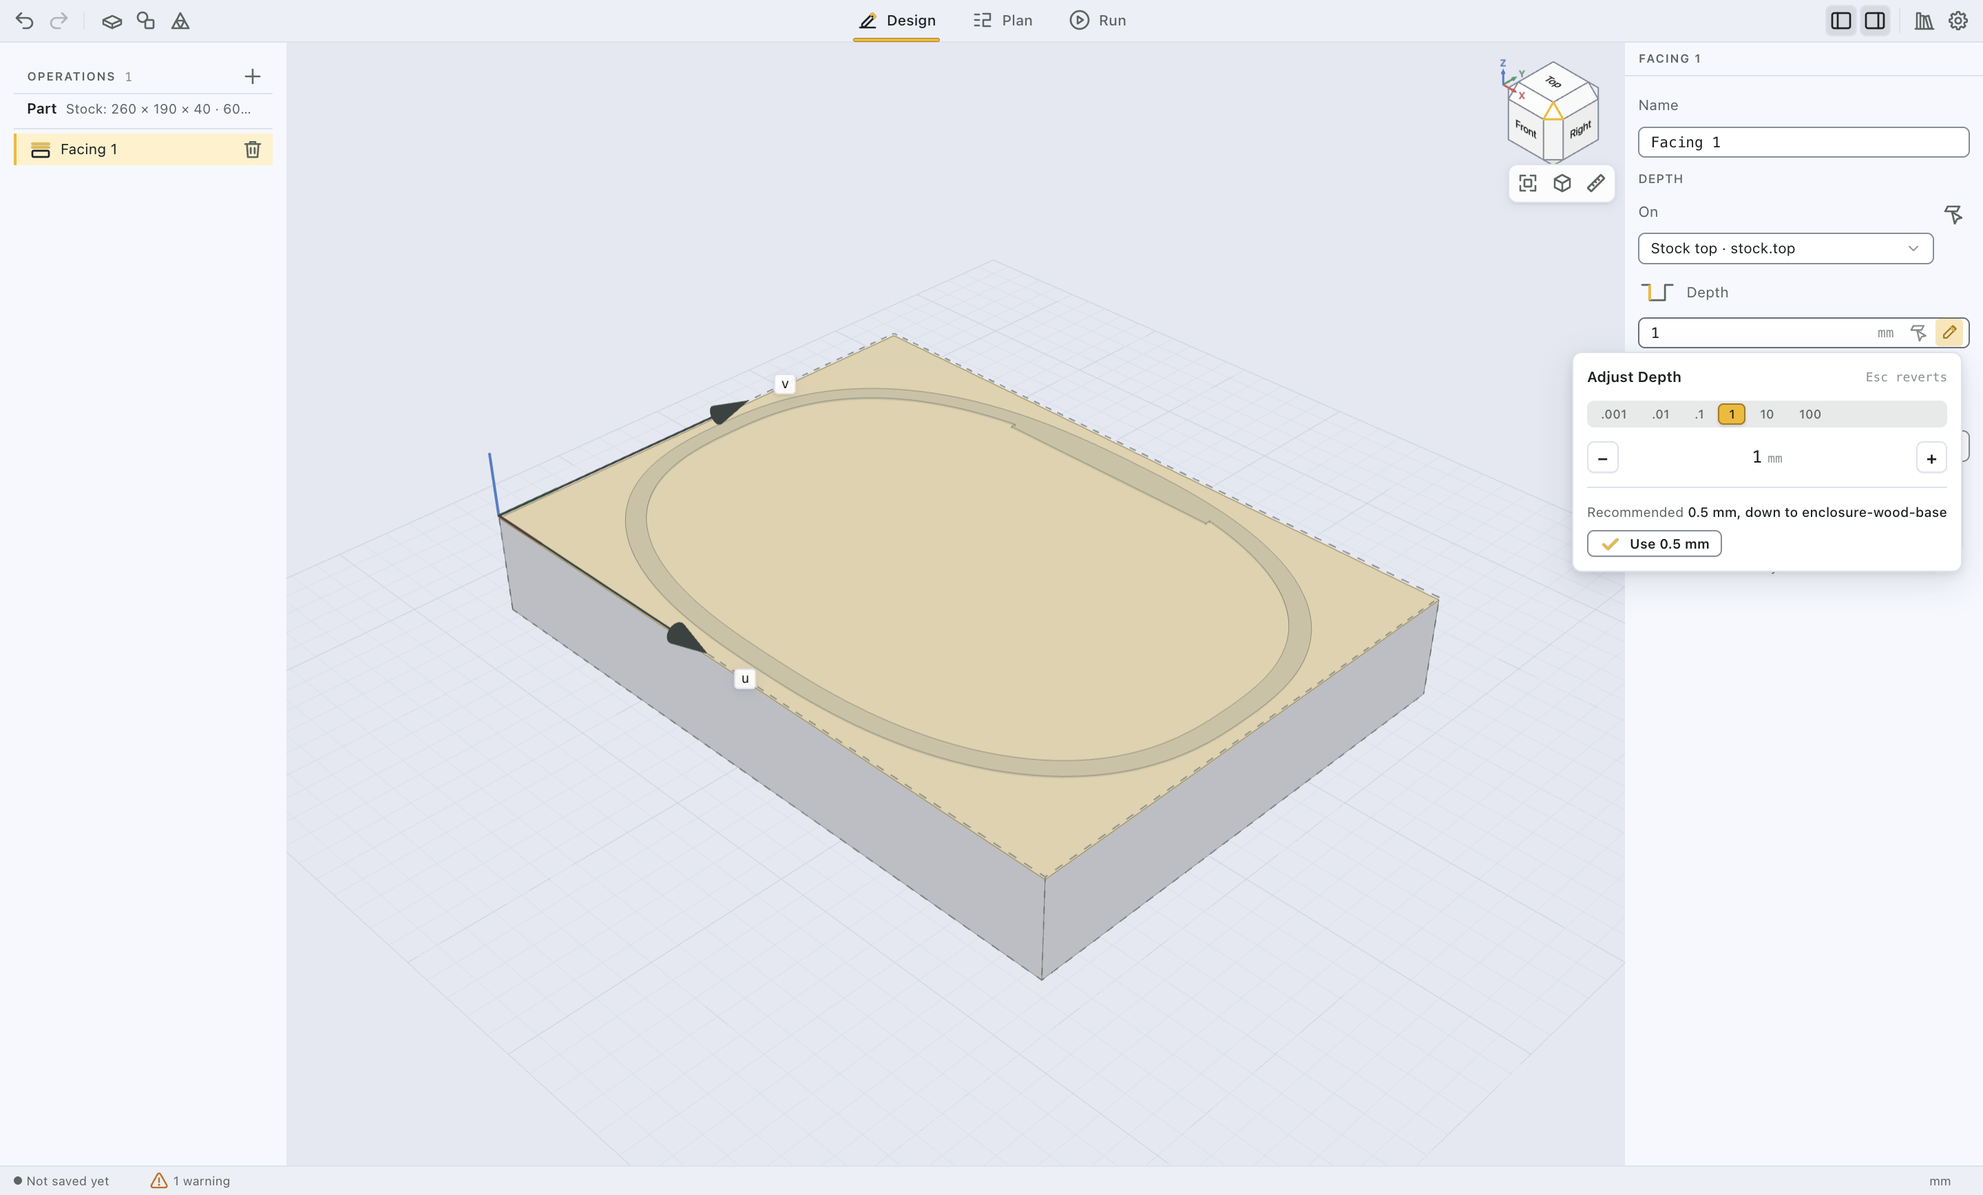
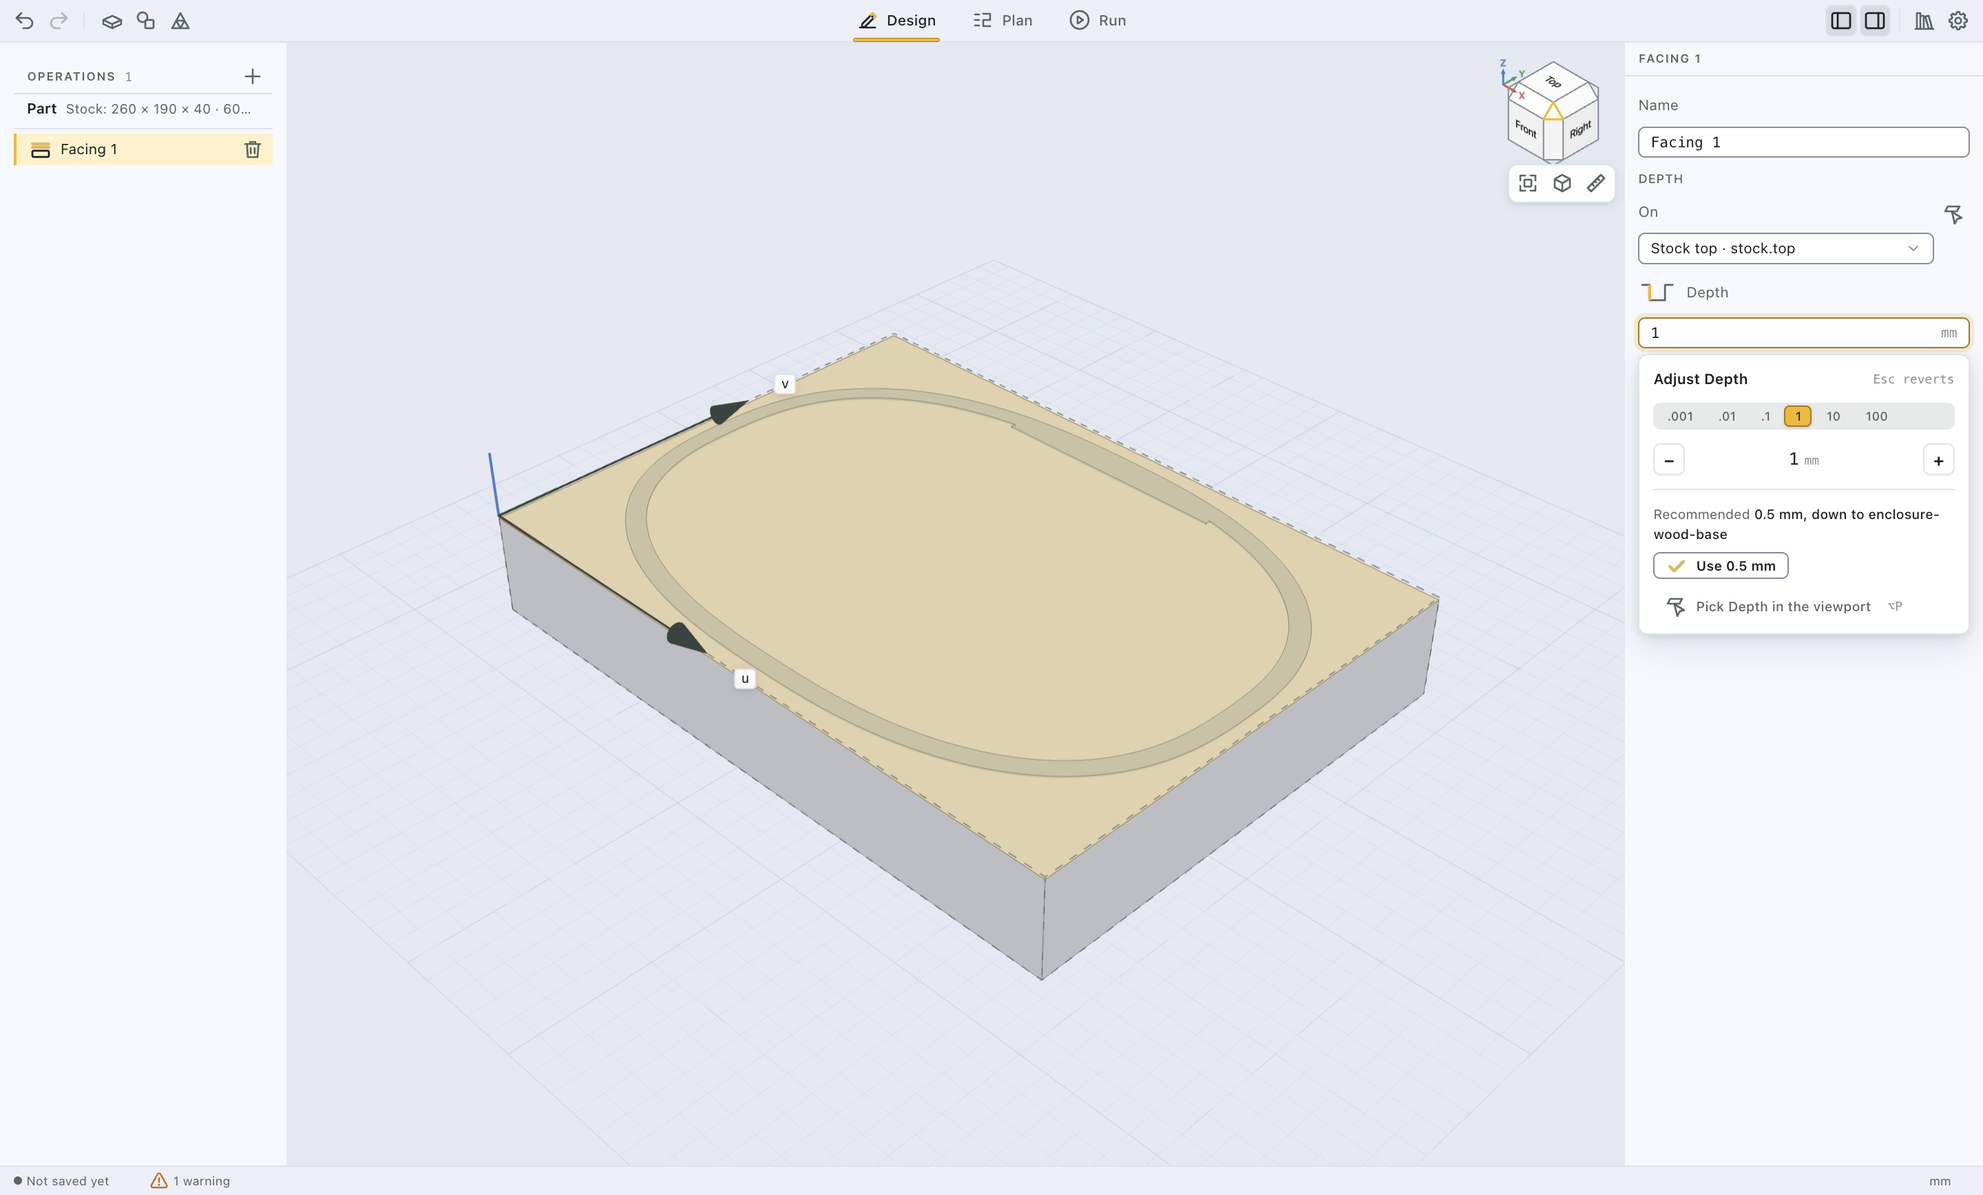
Integrate DF batch 1: facing depth e2e on the Reference panel and the focus-opened adjust panel
- e2e/facing-depth: import through the Reference panel (openReferencePanel), open the Depth
  adjust panel by clicking the field (no pencil since DF9)
- FacingDepth component test: open the adjust panel from the field
- QuantityInput: component test for the recommended value in the adjust panel
  (Recommended … · Use …, disabled once the value matches)
- Docs: recommended value lives in the adjust panel (ui.md, reference-model.md); DF1, DF4,
  DF9, DF10 done in the hardening plan
- Renders regenerated: df4-facing-depth, df1-tool-details, u4-chamfer-mill, df-reference-*

Changed region(s): [[0.7812, 0.2488, 1.0, 0.5599]]

diff --git a/e2e/facing-depth.e2e.ts b/e2e/facing-depth.e2e.ts
@@ -1,11 +1,11 @@
 // The facing depth down to the reference model (DF4) in the built app: the enclosure STL is placed
 // 0.5 mm under the stock top, Add facing takes 0.5 mm as its depth, and after another depth the
-// Depth field's pencil offers "Use 0.5 mm" again. Windows stay hidden (app.fixture.ts). With
+// Depth field's adjust panel (opened by focusing the field, DF9) offers "Use 0.5 mm" again. Windows stay hidden (app.fixture.ts). With
 // DFYOM_RENDERS=1 it writes the light and dark review renders df4-facing-depth-{light,dark}.png.
 // Docs: docs/modes/reference-model.md#facing-depth-from-the-reference-df4
 import { join, resolve } from 'node:path'
 import type { ElectronApplication, Locator, Page } from '@playwright/test'
-import { expect, openPartSetup, test } from './app.fixture'
+import { expect, openReferencePanel, test } from './app.fixture'
 
 const STL = resolve('src/core/design/__fixtures__/enclosure-wood-base.stl')
 const RENDERS = process.env['DFYOM_RENDERS'] === '1'
@@ -75,13 +75,13 @@ test('facing depth from the reference: Add facing and the Depth field suggest it
   await setField(setup, 'Thickness (Z)', '40')
   await setup.getByRole('button', { name: 'Create part' }).click()
 
-  // import (fitted to the top), then lower it 0.5 mm into the stock
-  const group = await openPartSetup(page, 'Reference')
-  await group.getByRole('button', { name: 'Import STL…' }).click()
-  await expect(group).toBeHidden({ timeout: 30_000 })
-  await expect(input(inspector, 'Position Z')).toHaveValue('-39 mm')
-  await setField(inspector, 'Position Z', '-39.5 mm')
-  await expect(input(inspector, 'Position Z')).toHaveValue('-39.5 mm')
+  // import in the Reference panel (fitted to the top), then lower it 0.5 mm into the stock
+  const panel = await openReferencePanel(page)
+  await panel.getByRole('button', { name: 'Import STL…' }).click()
+  await expect(panel.getByTitle('enclosure-wood-base')).toBeVisible({ timeout: 30_000 })
+  await expect(input(panel, 'Position Z')).toHaveValue('-39 mm')
+  await setField(panel, 'Position Z', '-39.5 mm')
+  await expect(input(panel, 'Position Z')).toHaveValue('-39.5 mm')
 
   // a new facing faces down to the reference's top
   await navigator.getByRole('button', { name: 'Add facing' }).click()
@@ -89,15 +89,14 @@ test('facing depth from the reference: Add facing and the Depth field suggest it
   const depth = input(inspector, 'Depth')
   await expect(depth).toHaveValue('0.5 mm')
 
-  // another depth: the pencil offers the reference's depth again
+  // another depth: the adjust panel (opened by focusing the field) offers the reference's again
   await setField(inspector, 'Depth', '1')
   await expect(depth).toHaveValue('1')
-  const adjust = inspector.getByRole('button', { name: 'Adjust Depth' })
   const popover = page.getByRole('dialog', { name: 'Adjust Depth' })
-  await adjust.click()
+  await depth.click()
   await expect(popover.getByText(/0\.5 mm, down to enclosure-wood-base/)).toBeVisible()
   await render(page, 'df4-facing-depth', async () => {
-    await adjust.click()
+    await depth.click()
     await expect(popover).toBeVisible()
   })
   await popover.getByRole('button', { name: 'Use 0.5 mm' }).click()

diff --git a/src/renderer/src/modes/design/FacingDepth.test.tsx b/src/renderer/src/modes/design/FacingDepth.test.tsx
@@ -1,5 +1,5 @@
 // The facing depth down to the reference model (DF4) in the Design window: Add facing takes it as
-// the new facing's depth, the Depth field offers it as its recommended value ("Use …"), and a
+// the new facing's depth, the Depth field's adjust panel (opened on focus) offers it as its recommended value ("Use …"), and a
 // reference at the stock top suggests nothing. Fake bridge bound to a real project runtime with an
 // in-memory asset store and file-reading in-process workers; the viewport canvas is stubbed.
 // Doc: docs/modes/reference-model.md#facing-depth-from-the-reference-df4
@@ -110,11 +110,13 @@ describe('facing depth from the reference (DF4)', () => {
     const depth = within(inspector()).getByLabelText('Depth', { selector: 'input' })
     expect(depth).toHaveValue('0.48 mm')
 
-    // a different depth: the pencil offers the reference's depth again
+    // a different depth (Enter closes the adjust panel): clicking the field reopens it, offering
+    // the reference's depth again
     await user.clear(depth)
     await user.type(depth, '1{Enter}', { skipClick: true })
     await waitFor(() => expect(depthOf()).toBe('1'))
-    await user.click(within(inspector()).getByRole('button', { name: 'Adjust Depth' }))
+    await waitFor(() => expect(screen.queryByRole('dialog', { name: 'Adjust Depth' })).toBeNull())
+    await user.click(depth)
     const dialog = await screen.findByRole('dialog', { name: 'Adjust Depth' })
     expect(within(dialog).getByText(/0\.48 mm, down to box/)).toBeInTheDocument()
     await expectNoAxeViolations()
@@ -127,7 +129,7 @@ describe('facing depth from the reference (DF4)', () => {
     await user.click(await within(navigator()).findByRole('button', { name: 'Add facing' }))
     await within(inspector()).findByRole('heading', { name: 'Facing 1' })
     expect(depthOf()).toBe('0.5 mm')
-    await user.click(within(inspector()).getByRole('button', { name: 'Adjust Depth' }))
+    await user.click(within(inspector()).getByLabelText('Depth', { selector: 'input' }))
     const dialog = await screen.findByRole('dialog', { name: 'Adjust Depth' })
     expect(within(dialog).queryByText(/down to/)).toBeNull()
   })

diff --git a/src/renderer/src/ui/QuantityInput/QuantityInput.test.tsx b/src/renderer/src/ui/QuantityInput/QuantityInput.test.tsx
@@ -1,6 +1,6 @@
 // Spec: docs/conventions/ui.md#quantity-and-expression-input (task 3.4); grammar edge cases from
 // the plan's known issues (`+1/2` deviation pair, `D -1/2`, Greek mu).
-import { act, screen, waitFor } from '@testing-library/react'
+import { act, screen, waitFor, within } from '@testing-library/react'
 import { useState } from 'react'
 import { describe, expect, it, vi } from 'vitest'
 import type { ReferenceResolver } from '../../../../core/expression/evaluate'
@@ -776,6 +776,26 @@ describe('QuantityInput: adjust panel on focus (DF9)', () => {
     await user.type(input, '5')
     expect(input).toHaveValue('3.005')
     expect(panel).toHaveTextContent('3.005')
+  })
+
+  it('shows the recommended value in the panel; "Use …" only while the value differs', async () => {
+    const { user, input, onCommit } = setup({
+      recommended: { source: '0.5 mm', text: '0.5 mm, down to enclosure' },
+    })
+    await user.click(input)
+    const panel = screen.getByRole('dialog', { name: 'Adjust Width' })
+    expect(panel).toHaveTextContent('Recommended 0.5 mm, down to enclosure')
+    const use = within(panel).getByRole('button', { name: 'Use 0.5 mm' })
+    expect(use).toBeEnabled()
+    await user.click(use)
+    expect(committed(onCommit)).toEqual(['0.5 mm = 1/2'])
+    await waitFor(() => expect(screen.queryByRole('dialog')).toBeNull())
+    await user.click(input)
+    expect(
+      within(screen.getByRole('dialog', { name: 'Adjust Width' })).getByRole('button', {
+        name: 'Use 0.5 mm',
+      }),
+    ).toBeDisabled()
   })
 
   it('has no pencil or other button in the input: Tab goes from field to field', async () => {

diff --git a/src/renderer/src/modes/design/OperationFields.tsx b/src/renderer/src/modes/design/OperationFields.tsx
@@ -82,7 +82,7 @@ export interface OperationFieldsContext {
   readonly fixElsewhere?: ((w: DfmWarning) => { label: string; onApply: () => void }) | undefined
   /**
    * Recommended values by parameter path (the facing's depth down to the reference, DF4): the
-   * field's pencil offers "Use …" (QuantityInput `recommended`); never on read-only fields.
+   * field's adjust panel offers "Use …" (QuantityInput `recommended`); never on read-only fields.
    */
   readonly recommended?: Readonly<Record<string, { source: string; text: string }>> | undefined
 }

diff --git a/docs/plans/hardening.md b/docs/plans/hardening.md
@@ -64,16 +64,16 @@ Batch 1: TG #196 (2026-11-22, from the installed 0.3.2). One row per finding; id
 
 | Id   | Finding (user's words, short)                                                                                                                                                                                                             | Severity | Class | Task      | Status                                                                                                                                 |
 | ---- | ----------------------------------------------------------------------------------------------------------------------------------------------------------------------------------------------------------------------------------------- | -------- | ----- | --------- | -------------------------------------------------------------------------------------------------------------------------------------- |
-| DF1  | Tool library: secondary parameters (material, coating, …) under an accordion when creating/editing a tool                                                                                                                                 | S3       | UX    | DFB-lib   | doing                                                                                                                                  |
+| DF1  | Tool library: secondary parameters (material, coating, …) under an accordion when creating/editing a tool                                                                                                                                 | S3       | UX    | DFB-lib   | done: "Details" accordion (material, coating, notes), open state kept per window                                                       |
 | DF2  | Reference selected → stock semi-transparent to see the model inside; a checkbox (on by default) in the reference panel                                                                                                                    | S2       | UX    | DFB-ref   | done: "See through stock" (on by default), stock at 35 % while the Reference panel shows a reference                                   |
 | DF3  | Reference panel: toolbar Reference button toggles a right-sidebar Reference panel (closes when something else needs the sidebar); import/delete STL there; visibility toggle                                                              | S2       | UX    | DFB-ref   | done: Reference is a right-sidebar panel toggled from the toolbar; import, replace, remove, visibility there                           |
-| DF4  | Facing depth: suggest the depth that faces the stock top down to the reference's closest (top) point                                                                                                                                      | S2       | UX    | DFB-face  | doing                                                                                                                                  |
+| DF4  | Facing depth: suggest the depth that faces the stock top down to the reference's closest (top) point                                                                                                                                      | S2       | UX    | DFB-face  | done: Add facing takes the depth down to the reference top; the Depth adjust panel recommends it ("Use …")                             |
 | DF5  | "Fit to stock" sat below the fold; expected it to scale the model too. Fit becomes a mode in the right sidebar: fit settings (scale, anchor, height Top/Centre/Bottom with hints), 3D preview, Apply/Cancel; closing the panel cancels it | S2       | UX    | DFB-ref   | done: Fit mode (scale to fit, fit within axes, margin, anchor, height, live preview, Apply/Cancel); API `fit.margin`/`fit.scaleTo`     |
 | DF6  | Show the scaled reference size in the reference panel                                                                                                                                                                                     | S3       | UX    | DFB-ref   | done: Size line (scaled) next to File                                                                                                  |
 | DF7  | Anchor unclear (no hint, far from Scale); Height unclear and not grouped with Fit; add (i) hints                                                                                                                                          | S3       | UX    | DFB-ref   | done: Scale group (Scale + Anchor, scaling keeps the anchor point), Height inside Fit, (i) hints; Replace STL is two undo steps (open) |
 | DF8  | Reference name field unimportant: drop it, use the file name                                                                                                                                                                              | S3       | UX    | DFB-ref   | done: Name field removed; file name is the title                                                                                       |
-| DF9  | Value fields: focusing opens the pencil (expression/pick) dropdown with the input kept focused; clicks inside keep focus; hide the pencil button (fixes Tab stopping on it)                                                               | S2       | UX    | DFB-field | doing                                                                                                                                  |
-| DF10 | "Pick X in the viewport" doesn't toggle off on a second click (only Esc)                                                                                                                                                                  | S2       | bug   | DFB-field | doing                                                                                                                                  |
+| DF9  | Value fields: focusing opens the pencil (expression/pick) dropdown with the input kept focused; clicks inside keep focus; hide the pencil button (fixes Tab stopping on it)                                                               | S2       | UX    | DFB-field | done: the adjust panel opens on focus (input keeps focus, combobox); pencil gone, Tab goes field to field                              |
+| DF10 | "Pick X in the viewport" doesn't toggle off on a second click (only Esc)                                                                                                                                                                  | S2       | bug   | DFB-field | done: the pick toggle in the adjust panel turns picking off on a second press                                                          |
 
 ## 3. Bugs (known before dogfood)
 

diff --git a/docs/modes/reference-model.md b/docs/modes/reference-model.md
@@ -86,7 +86,7 @@ The user's case ([hardening.md](../plans/hardening.md) intake DF4): the referenc
 - **Rule** (`suggestFacingDepth` in `src/core/design/reference.ts`): for a facing on the stock face of direction `n`, the depth is the distance from that face to the reference's extreme point along `n` (the stock top: `0 − max z` of the reference in the part frame), in mm. It is offered only when it is **positive and less than the stock's extent along `n`** (the facing's own [constraint](design-v0.2.md#face-targets-generalised-on)) and the reference overlaps the face rectangle; otherwise there is no suggestion (a reference at or above the face, the usual fit to top, gives none). Several references: the smallest depth (the facing never reaches into any of them).
 - **Rounded down** to the project's unit, 0.001 mm or 0.0001 in, so the suggested literal never cuts into the reference (`facingDepthSource`; "0.48 mm", `0.0189"`).
 - **Mesh or box:** the extreme point comes from the reference's triangles in the part frame (`meshBounds` in `mesh-section.ts`, with the ghost's matrix) when the window has the mesh, else from the [placed bounding box](#placement-math-task-r2) – identical for 90° rotations; for free angles the box is the shallower (safe) value. Headless callers have only the box.
-- **Design UI:** a facing's Depth field offers the suggestion as its recommended value (the amber pencil, "Use 0.48 mm", [ui.md § Quantity input](../conventions/ui.md#quantity-and-expression-input)) when it differs from the stored depth, for the facing's `on` face; Add → Facing uses it as the new facing's depth instead of the 0.5 mm / 1/64″ default. Hidden references count too (visibility is view state); their box is used until the mesh is read.
+- **Design UI:** a facing's Depth field offers the suggestion as its recommended value in its adjust panel (opened on focus since DF9: "Recommended 0.48 mm, down to … · Use 0.48 mm", [ui.md § Quantity input](../conventions/ui.md#quantity-and-expression-input)); "Use" is enabled while it differs from the stored depth, for the facing's `on` face; Add → Facing uses it as the new facing's depth instead of the 0.5 mm / 1/64″ default. Hidden references count too (visibility is view state); their box is used until the mesh is read.
 - **Agents:** `design.reference.list` returns `facingDepth` per reference: the suggestion by stock face id (`{ "stock.top": "0.48 mm" }`, project units, from the placed box), only the faces that have one. `design.facing.add` keeps its default; the agent passes the depth ([llm-api.md](../architecture/llm-api.md#implementation-task-310)).
 
 ## Storage

diff --git a/docs/conventions/ui.md b/docs/conventions/ui.md
@@ -409,7 +409,7 @@ Every dimensional field is a `QuantityInput` over the [quantity model](../archit
 - **Steppers:** `↑`/`↓` step a plain literal by the field's step in the source's unit (`Shift` ×10, `Alt` ×0.1); disabled for expressions. No spinner buttons.
 - **Tolerance:** typed in the same field. An untoleranced field shows the inherited general tolerance as muted text with its scope ("±0.1 mm from part").
 - **Recommended range:** where a check or the calculator knows one, the field shows it as a hint ("recommended ≥ 3.2 mm") and a `Term`-style tooltip explains what it depends on and what it affects (principle §5); a [DFM suggestion](#warnings-and-dfm) offers "Apply".
-- **Recommended value** (`recommended` prop): a single value the app derives for this field, such as a facing's depth down to the reference model ([reference-model.md § Facing depth](../modes/reference-model.md#facing-depth-from-the-reference-df4)): the pencil turns amber while the stored value differs and the adjust popover offers "Recommended: … · Use …". It never commits by itself.
+- **Recommended value** (`recommended` prop): a single value the app derives for this field, such as a facing's depth down to the reference model ([reference-model.md § Facing depth](../modes/reference-model.md#facing-depth-from-the-reference-df4)): the adjust panel (opened on focus, DF9) shows "Recommended … · Use …", "Use" enabled while the stored value differs (the amber pencil cue went with the pencil). It never commits by itself.
 - **References:** typing a letter offers an autocomplete list of valid references (surfaces of earlier operations, tool parameters) ([decision 16](#decisions)); a reference that becomes unknown later marks the field with `expression.reference`.
 - **Precision:** display precision belongs to the field ([quantities.md](../architecture/quantities.md#value)); the decimal separator is always `.`.
 
